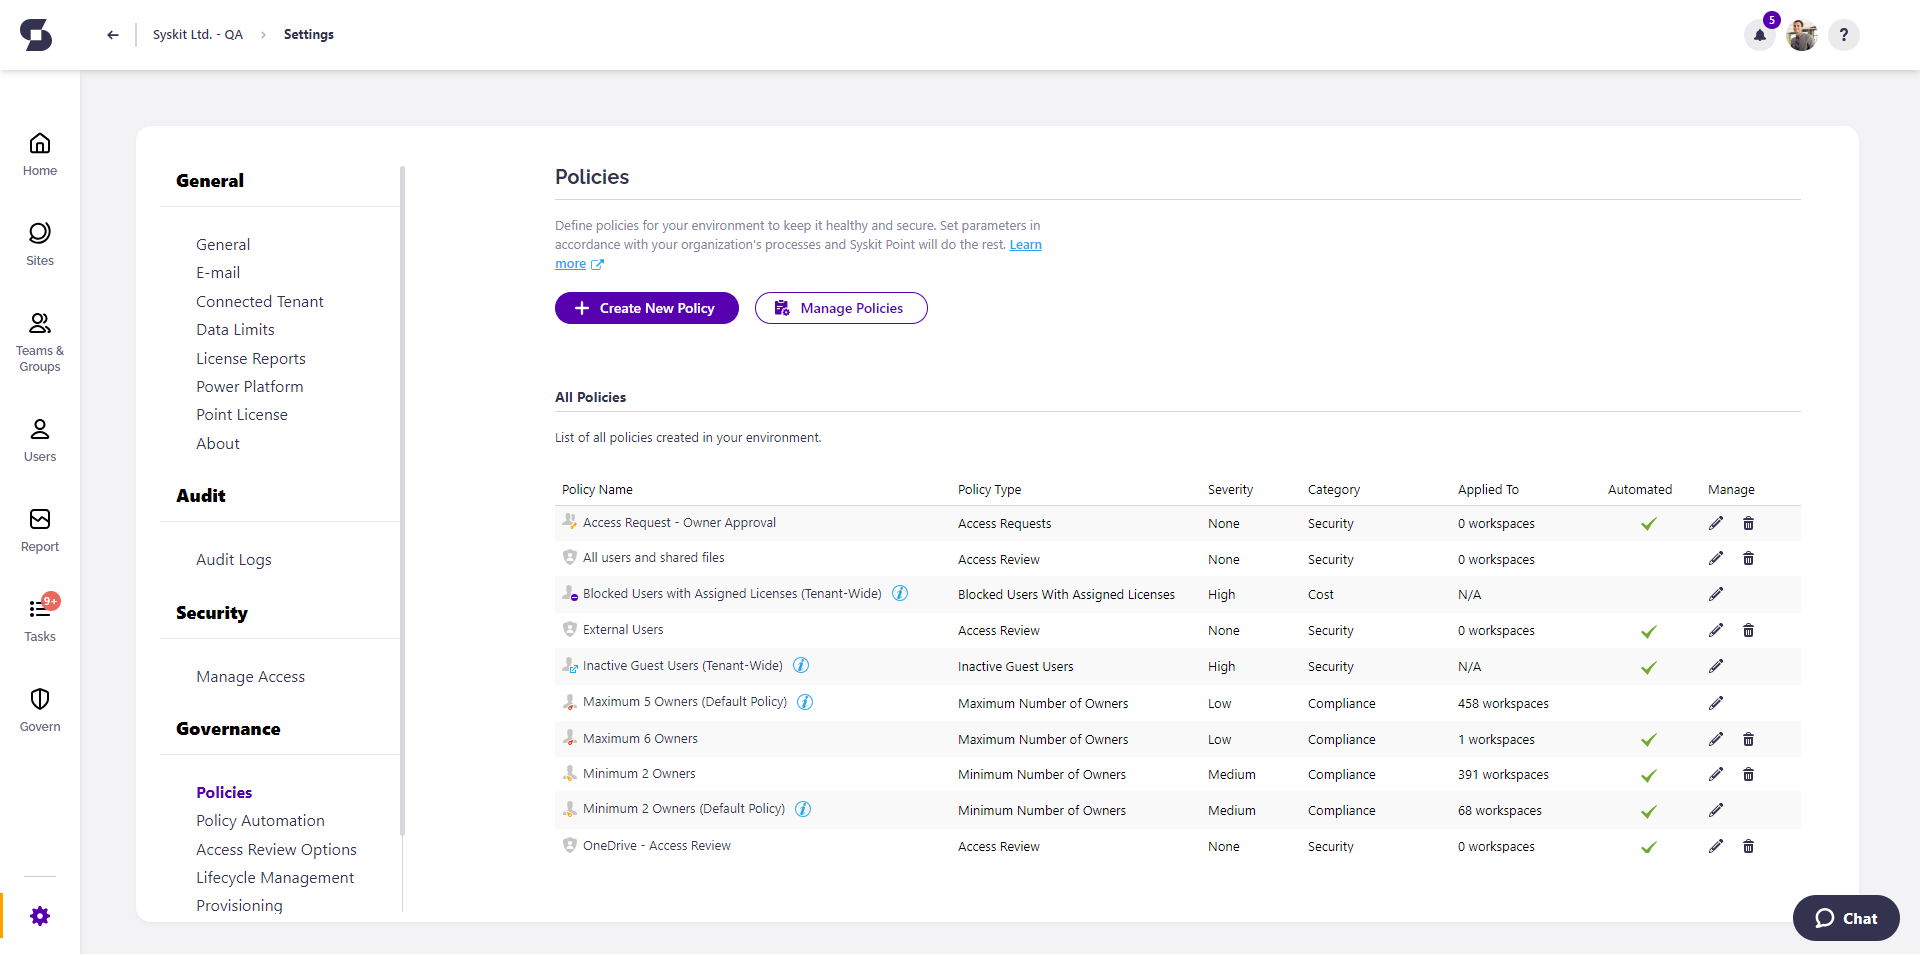
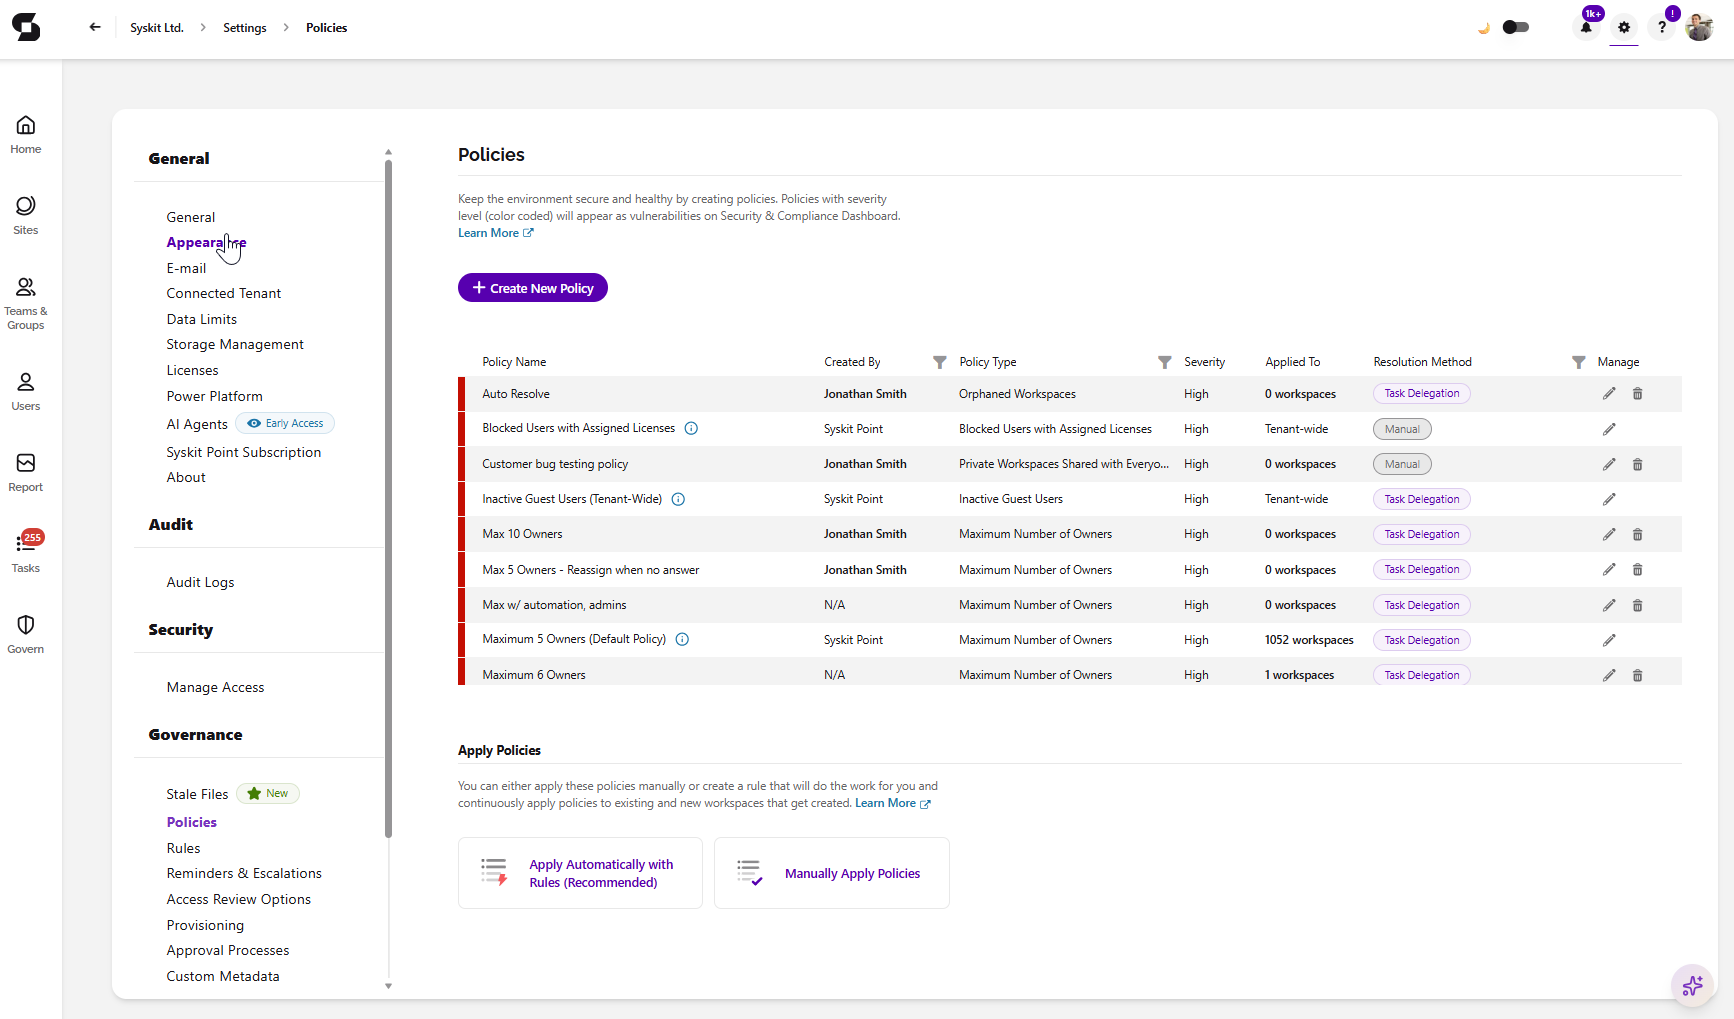
Point Starter Kit update

diff --git a/docs/get-to-know-syskit-point/point-starter-kit.md b/docs/get-to-know-syskit-point/point-starter-kit.md
@@ -1,132 +1,149 @@
----
+---
 description: This article helps you learn more about using your Syskit Point.
 ---
 
 # The Syskit Point Starter Kit
 
-Syskit Point is a **scalable and easy-to-use management and governance platform for Microsoft 365**. It makes complex environments easy to manage and secure by centralizing inventory and management across multiple Microsoft 365 workloads.
+This article walks you through the main areas of Syskit Point and links to the resources you'll need.
 
-Your flow of using Syskit Point can go like this, and we will explain each part and link to resources you might need:
+Syskit Point is the **governance layer for your Microsoft 365 environment**. It gives you full visibility and keeps your environment under control: secured, cost-optimized, and ready for safe AI adoption. You manage it all from one interface, with less manual work and full coverage of Microsoft 365.
 
-* [**Discover**](#discover-microsoft-365-inventory): Start by centralizing users, structure, and workspaces across Microsoft 365 Groups, Microsoft Teams, OneDrive, SharePoint, and Power Platform services.
-* [**Secure**](#secure-reporting-and-management) & [**Protect**](#protect-auditing): Drill down and dig deep to get a detailed overview of who has access to what and audit user actions, including external users, supported by bulk management actions.
-* [**Efficient Control**](#control-governance-automation-and-lifecycle-management): Automate and enforce governance procedures and policies across Microsoft 365 to gain control over all processes. Manage workspace lifecycle from its creation to its end of life.
-* **Collaborate**: Make end users your reliable partners in governance. Enable them to help you secure the data and manage their workspaces to reduce uncontrolled sprawl and unnecessary sharing.
+Your path through Syskit Point usually looks like this:
+
+* [**Discover**](#discover-microsoft-365-inventory): See your whole Microsoft 365 environment in one place, including users, Teams, Groups, SharePoint sites, OneDrive, Power Platform, and AI agents.
+* [**Control**](#control-automated-governance-and-lifecycle-management): Automate governance and hand responsibility to workspace owners. Manage every workspace from creation to archiving or deletion.
+* [**Secure & Comply**](#secure--comply-permissions-access-management-and-audit): Find out who has access to what and stop oversharing. You can also catch risky activity early and stay ready for audits.
+* [**Optimize Costs**](#optimize-costs-storage-and-licenses): Cut unnecessary storage and license spend, and see the ROI within minutes.
+* [**Enable Safe AI**](#enable-safe-ai-adoption): Know which content AI can reach, keep track of AI agents, and make sure Copilot works with accurate, up-to-date data.
 
 :::warning
 **Please note!**\
-If you are a free trial user, we recommend reading about activation, some limitations, and instructions [here](../set-up-point-cloud/overview.md).
+If you're on a free trial, read about activation, limitations, and setup instructions [here](../set-up-point-cloud/overview.md).
 :::
 
-## DISCOVER: MICROSOFT 365 INVENTORY
+## Discover: Microsoft 365 inventory
 
-Gain a highly accurate and centralized view of all users and workspaces **across Microsoft Teams, Groups, OneDrive, SharePoint, and Power BI**.
-
-Drill down into detailed reports about structure, memberships, permissions, and much more - gain efficiency and secure your data. Avoid jumping from one admin center to another.
+No blind spots and no manual scripts. Get a centralized, accurate view of every user and workspace across **Microsoft Teams, Groups, SharePoint, OneDrive, Power Platform, and AI agents**, without moving between admin centers.
 
 ![Syskit Point - Home screen](../../static/img/point-starter-kit-home-screen-all.png)
 
-## Users Overview
+### Users Overview
 
-[**The Users Overview**](../microsoft365-inventory/users.md) screen can be accessed from the homepage and **provides detailed insight into everything you need to know about your Microsoft 365 users**. This information can also be exported as PDF and Excel files or scheduled for delivery via email.
+Open the [**Users Overview**](../microsoft365-inventory/users.md) from the home screen to see all your Microsoft 365 users in one place. That includes external users, administrators, inactive users, users with blocked sign-in, and their permissions, so anomalies stand out. You can export the data to PDF or Excel, or schedule it for email delivery.
 
-You can also click on a specific user through the Users Overview screen. The user details screen includes details on the following:
+Select any user to see:
 
-* General information about the user
-* The user's analytics and usage
-* Microsoft Teams and Group Memberships the user is a part of
-* Which workspaces does the user have access to
+* General user information
+* Analytics and usage
+* Microsoft Teams and Group memberships
+* Every workspace the user can access
 
-## Sites, Microsoft Teams, Groups, OneDrive Overviews
+### Sites, Microsoft Teams, Groups, and OneDrive Overviews
 
-These overviews can also be found directly on the home screen, and **allow you to explore and filter through your** [**Sites**](../microsoft365-inventory/sites.md)**,** [**Microsoft Teams & Groups**](../microsoft365-inventory/microsoft-teams-and-groups.md)**, and OneDrive**. Selecting one or more sites also gives you a lot of useful details as well as the ability to **manage different options for the sites with one simple click**. You can also click on a specific site for a more detailed overview of it. Here you will find information like:
+From the home screen, you can explore and filter your [**Sites**](../microsoft365-inventory/sites.md), [**Microsoft Teams & Groups**](../microsoft365-inventory/microsoft-teams-and-groups.md), and **OneDrive**. Select one or more workspaces to act on them in bulk, or open a single workspace for a detailed view:
 
-* Overview of the site with the number of users, external users, anonymous links, and unique permissions
-* Content overview, which includes a list of all files included in the site
-* Who has permission for the site
+* Number of users, external users, anonymous links, and unique permissions
+* Content overview with all files in the workspace
+* Who has permissions on the workspace
 
-➡ Learn how to [Navigate](navigate-through-syskit-point.md) through Syskit Point.
+➡ Learn how to [navigate](navigate-through-syskit-point.md) through Syskit Point.
 
-➡ Learn more about the [Dashboard](../microsoft365-inventory/explore-your-microsoft-365-dashboard.md) and get the entire picture of the **Microsoft 365 environment**.
+➡ Explore the [Dashboard](../microsoft365-inventory/explore-your-microsoft-365-dashboard.md) to get the full picture of your Microsoft 365 environment.
 
-## SECURE: REPORTING AND MANAGEMENT
+## Control: automated governance and lifecycle management
 
-Create numerous **reports and perform management actions straight from the data overview**. Easily **export or schedule reports** to be delivered to any inbox or SharePoint library you want.
-
-## Generate reports
-
-With the one-click report generation, these detailed insights make it easy to manage your Microsoft 365 environment. Some of the reports we recommend trying first are:
-
-There are many reports available in Syskit Point, and **the categories that the reports cover** are:
-
-* [**Permissions**](../reporting/access-reports.md): Detect and manage who has access to what across Microsoft 365 sites. Drill down into user permissions and memberships. Detect broken inheritance for all your content where permissions differ from a parent!
-* [**External Sharing**](../reporting/external-sharing-reports.md): Control external access and excessive content sharing. Find all external users and guests, and detect externally shared content along with all sharing links.
-* [**License Usage**](../reporting/licenses-reports.md): Discover assigned, unassigned, and inactive Microsoft 365 licenses and the overall cost, or find and reclaim licenses assigned to inactive or blocked users - optimize the budget.
-* [**Cleanup**](../reporting/cleanup-and-health-reports.md): Check Microsoft 365 Groups and Microsoft Teams with disabled or deleted owners and assign new ones. Identify and remove orphaned users.
-
-![Syskit Point - Reports](../../static/img/point-starter-kit-reports.png)
-
-## Access Management
-
-Gain complete control over user access and maximize the security of your tenant- perform numerous management actions directly from reports - **single actions or bulk ones!**
-
-Some of the options include:
-
-* **Manage user permissions** – manage who has access to what from one central place, easily offboard people who leave or switch departments. You can also **add, copy, or transfer** permissions for multiple users at once.
-* Remove multiple or suspicious **sharing links and manage external users** and guests.
-* Manage Microsoft Teams and Groups **membership and ownership**.
-* **Restore permissions inheritance** on items where you find unique permissions.
-
-➡ Learn how to use [Access Management](../access-management/)
-
-## PROTECT: AUDITING
-
-For Security and Compliance departments looking to **stay compliant with regulations and improve the security posture** of Microsoft 365, on top of reporting and management, Point brings auditing to secure and prevent malicious actions!
-
-Control how your sensitive data is being used and accessed!
-
-**Avoid security breaches – audit user and admin activity** across Microsoft 365:
-
-* Sharing files, folders, sites, teams, or groups
-* Breaking/restoring sharing inheritance
-* Sharing links within the company & anonymous links
-* Deleting or creating sites, teams, or groups
-* Changing admins or modifying organization-wide settings
-
-➡ Learn how to [turn on auditing](../configuration/turn-on-auditing.md) in the Microsoft 365 Security & Compliance Center
-
-➡ Learn how to track [external users](../access-management/track-external-users-and-their-activities.md) and their activity.
-
-**Plus**: Set up [alerts](../governance-and-automation/configure-alerts.md), prevent security issues, get real-time updates, and react quickly.
-
-## CONTROL: GOVERNANCE AUTOMATION AND LIFECYCLE MANAGEMENT
-
-Setting up proper governance is key to the success of your organization’s Microsoft 365 deployment. When established appropriately, governance can help empower users to get maximum value from the platform.
-
-Manage workspace lifecycles from creation to end with **automated actions and policies**. Make end users your reliable partners in governance - **keep the tenant secure and clutter-free**.
+Governance should run continuously, not only when IT has time. Syskit Point combines **automated policies with delegated ownership**. IT keeps control and oversight, workspace owners stay accountable, and the environment stays clean without IT bottlenecks or extra headcount.
 
 ![Syskit Point - Policies](../../static/img/point-starter-kit-policies.png)
 
-* [**Set up provisioning**](../governance-and-automation/provisioning/)
-  * **Control workspace creation and avoid sprawl**: Set up **templates for new workspace requests** for Teams, Groups, sites, and Viva Engage communities with custom metadata, naming, and governance policies in place.
-  * **Unburden IT teams and simplify the process for end-users**: Customize requests and approval workflows with our user-friendly Teams app.
-* [**Maintain control over your workspace**](../governance-and-automation/workspace-review/monitor-workspace-review/workspace-review-governance.md)
-  * Enable your admins to define workspace review policies that are triggered during specified review cycles.
-  * Allow workspace owners to regularly review their workspace's memberships, sharing settings, external users, sensitivity, privacy, permissions, or ownership levels.
-  * Delegate responsibility to those with the best operational knowledge and select your reviewers.
-* [**Collaborate on access reviews**](../governance-and-automation/permissions-review/)
-  * Enable your admins to set up automated requests.
-  * Allow content owners to regularly review workspace memberships, sharing, and external users.
-  * Delegate the responsibility to those with the best operational knowledge – content owners.
-* **Enforce** [**governance policies and rules**](../governance-and-automation/automated-workflows/README.md)
-  * Re-certify guest users, clean up orphaned workspaces, and enforce ownership best practices.
-* [**Keep your tenant clean**](../governance-and-automation/automated-workflows/inactive-workspaces-admin.md)
-  * Detect inactive SharePoint sites, groups, and teams.
-  * Define policies for keeping, deleting, or archiving data.
+### [Provisioning](../governance-and-automation/provisioning/)
 
-## Set Up Your Syskit Point
+**Control workspace creation and prevent sprawl.** Set up templates for Teams, Groups, sites, and Viva Engage communities with custom metadata, naming conventions, and governance policies. Make requests simple for end users with customizable approval workflows in the [Syskit Point Teams app](../governance-and-automation/syskit-point-teams-app.md).
 
-Now that you know just some of the benefits of using Syskit Point, **there are a few things you will need to set up before you can start**.
+### [Workspace reviews](../governance-and-automation/workspace-review/monitor-workspace-review/workspace-review-governance.md)
+
+Define review policies that run on set review cycles. Have workspace owners regularly review memberships, sharing settings, external users, sensitivity, privacy, permissions, and ownership. Give responsibility to the people with the best operational knowledge.
+
+### [Access reviews](../governance-and-automation/permissions-review/)
+
+Automate review requests to content owners. Have owners regularly confirm memberships, sharing, and external users.
+
+### [Governance policies and rules](../governance-and-automation/automated-workflows/README.md)
+
+Re-certify guest users, clean up orphaned workspaces, and enforce ownership best practices automatically.
+
+### [Inactive workspace cleanup](../governance-and-automation/automated-workflows/inactive-workspaces-admin.md)
+
+Detect inactive SharePoint sites, Groups, and Teams. Define whether data is kept, archived, or deleted.
+
+## Secure & Comply: permissions, access management, and audit
+
+Stop oversharing, prevent data leakage, and pass audits without scrambling. Syskit Point offers the most granular, actionable permission reporting for Microsoft 365, and you can act on what you find directly from the reports.
+
+### Generate reports
+
+Generate reports in one click. **Export them, or schedule them** for delivery to any inbox or SharePoint library, so audit-ready reports are always available.
+
+Report categories include:
+
+* [**Permissions**](../reporting/access-reports.md): See who has access to what across Microsoft 365. Drill down into user permissions and memberships, and find broken inheritance wherever content permissions differ from the parent.
+* [**External Sharing**](../reporting/external-sharing-reports.md): Find all external users and guests, externally shared content, and sharing links, and bring excessive sharing under control.
+* [**Cleanup**](../reporting/cleanup-and-health-reports.md): Find Microsoft 365 Groups and Teams with disabled or deleted owners and assign new ones. Identify and remove orphaned users.
+
+![Syskit Point - Reports](../../static/img/point-starter-kit-reports.png)
+
+### Access Management
+
+Act on risks as soon as you find them, **one at a time or in bulk**, directly from reports:
+
+* **Manage user permissions** from one central place. Offboard people who leave or change departments, and **add, copy, or transfer** permissions for multiple users at once.
+* Remove risky **sharing links**, including anonymous links, and **manage external users** and guests.
+* Manage Teams and Groups **membership and ownership**.
+* **Restore permissions inheritance** on items with unique permissions.
+
+➡ Learn how to use [Access Management](../access-management/).
+
+### [Security and compliance checks](../governance-and-automation/security-compliance-checks/README.md)
+
+Run automated checks on users, files, permissions, and sensitivity labels to support ISO, HIPAA, and GDPR requirements. You stay compliant and can prove it.
+
+### Auditing and alerts
+
+Every permission, content, and configuration change across SharePoint, Teams, OneDrive, Exchange, and Groups is logged and easy to filter. You can track:
+
+* Sharing of files, folders, sites, teams, or groups
+* Breaking or restoring permissions inheritance
+* Internal and anonymous sharing links
+* Creation or deletion of sites, teams, or groups
+* Admin changes and changes to organization-wide settings
+
+Set up [alerts](../governance-and-automation/configure-alerts.md) to get early warnings about critical events and act before threats escalate.
+
+➡ Learn how to [turn on auditing](../configuration/turn-on-auditing.md) in the Microsoft 365 Security & Compliance Center.
+
+➡ Learn how to track [external users](../access-management/track-external-users-and-their-activities.md) and their activity.
+
+## Optimize costs: storage and licenses
+
+Reduce Microsoft 365 spend with no manual effort, and see the ROI within minutes.
+
+* **Storage management**: Quickly clean up sites and file versions, and archive at the site or file level. Storage limit alerts help prevent future bloat.\
+  ➡ Learn more: [Storage Management](../storage-management/README.md)
+* **License optimization**: Get a full overview of assigned, unassigned, and inactive licenses and their cost. Automated waste detection helps you reclaim redundant licenses, assign them where they're needed, and go into renewals with real data. Available as an add-on.\
+  ➡ Learn more: [Licenses reports](../reporting/licenses-reports.md)
+
+## Enable safe AI adoption
+
+AI is only as safe and accurate as the data it can reach. Syskit Point shows where AI could surface sensitive content and helps you fix it before anything is exposed.
+
+* **AI agent inventory**: See your AI agents and assistants in one clear view and manage the lifecycle of AI agents and assistants to reduce agent sprawl and data exposure.\
+  ➡ Learn more: [AI Agents](../ai-agents-and-apps/README.md)
+* **AI exposure risk overview**: See risky permissions, oversharing, and stale content across all workspaces. Fix them with permission management, lifecycle policies, delegated governance, and archiving.
+* **Better AI response quality**: Keep content accurate and up to date so Copilot works with data your teams can trust.
+
+## Set up your Syskit Point
+
+Now that you know what Syskit Point can do, there are a few things to set up before you start.
 
 Follow the instructions in these articles to get started:
 
